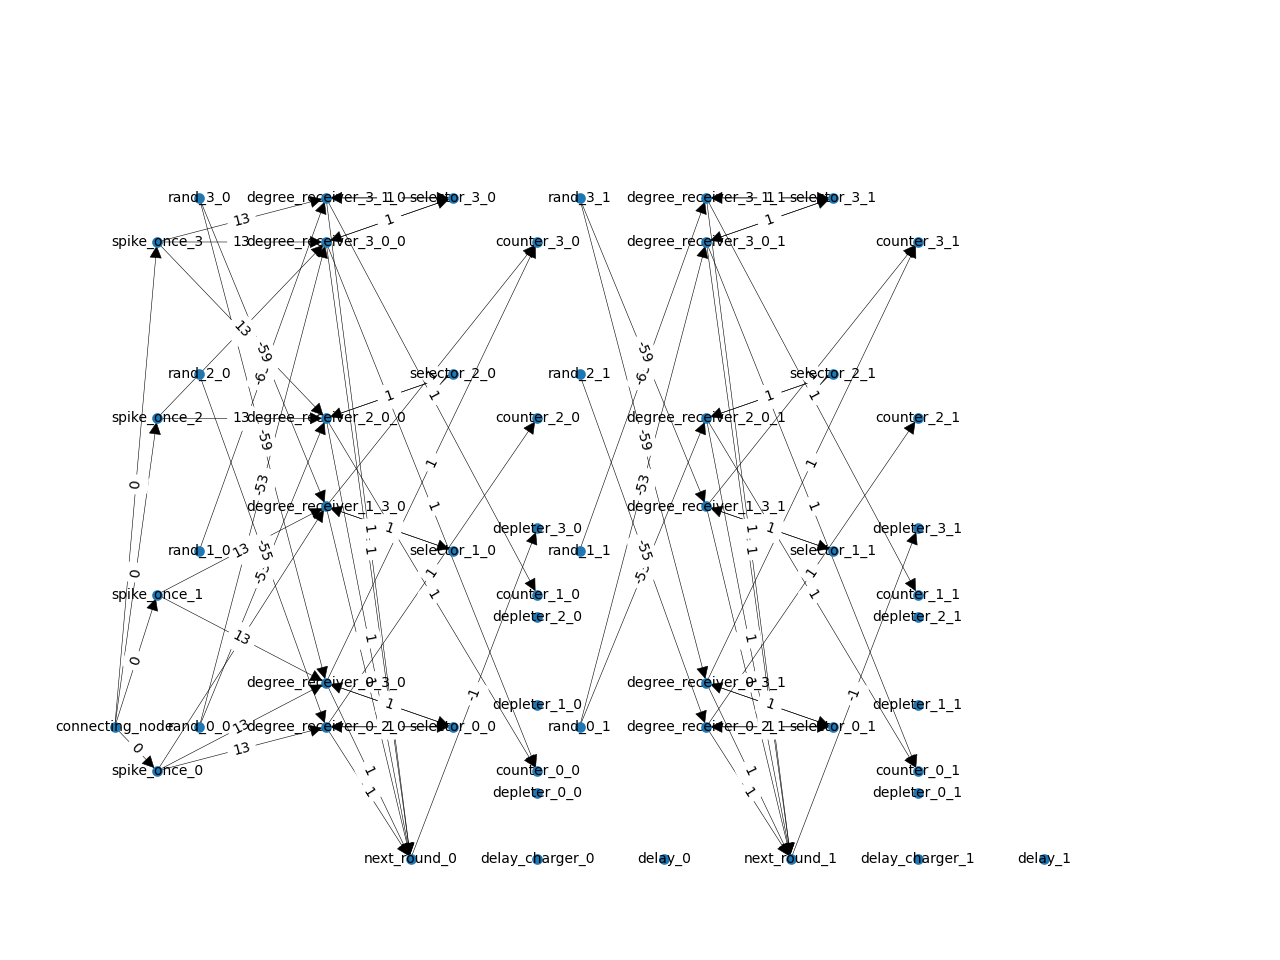
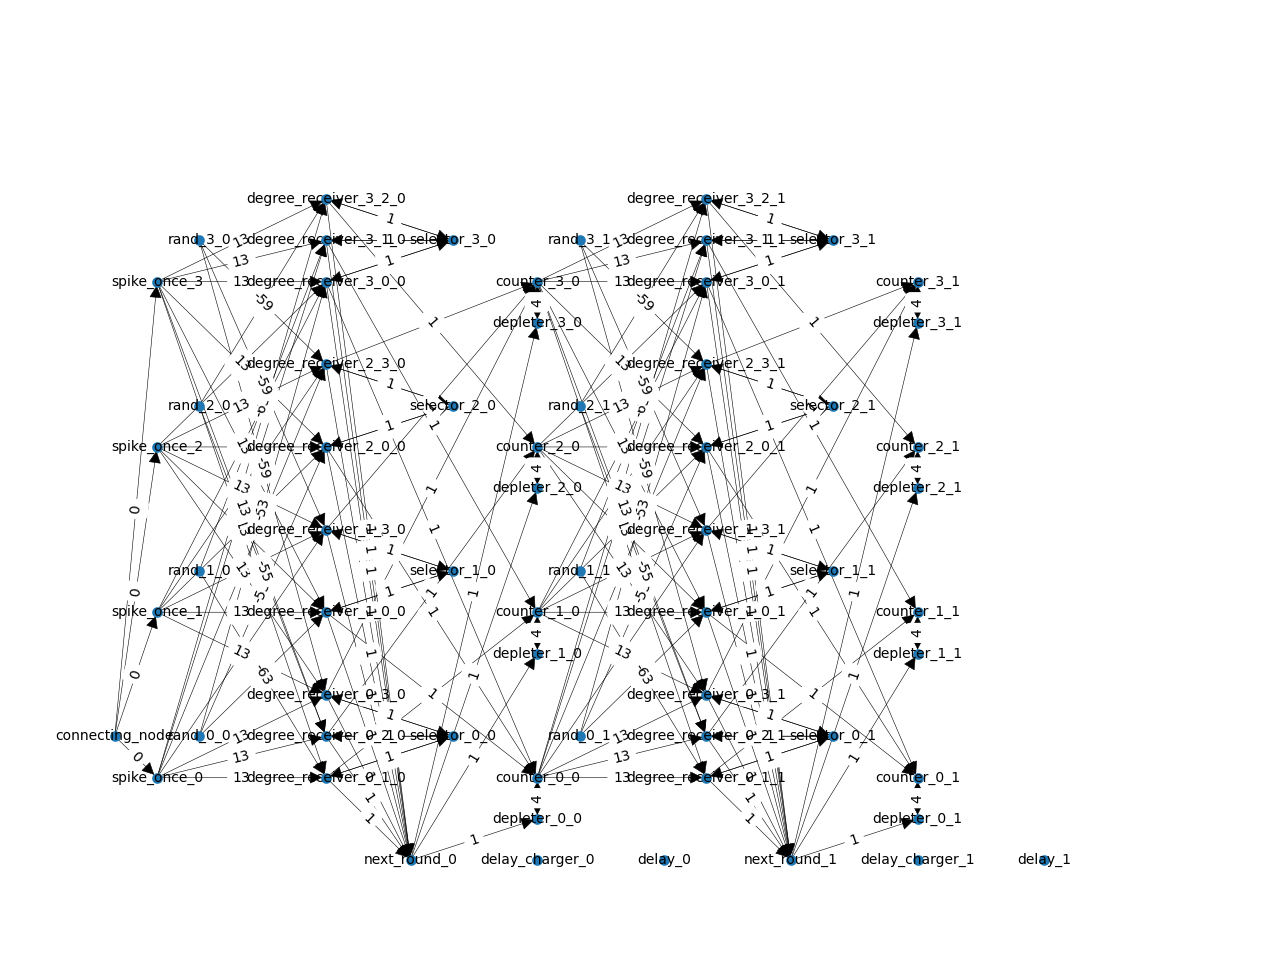
Included more synapses.

Changed region(s): [[0.0312, 0.1875, 0.75, 0.9062], [0.8125, 0.875, 0.8438, 0.9062], [0.5, 0.875, 0.5312, 0.9062]]

diff --git a/src/helper_network_structure.py b/src/helper_network_structure.py
@@ -128,7 +128,7 @@ def get_degree_graph_with_separate_wta_circuits(G, rand_nrs, rand_ceil, m=2):
                 id=node,
                 du=0,
                 dv=1,
-                bias=0,
+                bias=-len(G),
                 vth=0,
                 pos=(float(9 * d + loop * 9 * d), float(node * 4 * d)),
             )
@@ -141,7 +141,7 @@ def get_degree_graph_with_separate_wta_circuits(G, rand_nrs, rand_ceil, m=2):
                 dv=1,
                 bias=0,
                 vth=0,
-                pos=(float(9 * d + loop * 9 * d), float(node) - 0.25),
+                pos=(float(9 * d + loop * 9 * d), float(node * 4 * d) - d),
             )
 
         # Create next round connector neurons.
@@ -157,7 +157,7 @@ def get_degree_graph_with_separate_wta_circuits(G, rand_nrs, rand_ceil, m=2):
             )
 
             get_degree.add_node(
-                f"delay_charger_{loop}",
+                f"d_charger_{loop}",
                 id=node,
                 du=0,
                 dv=1,
@@ -172,7 +172,7 @@ def get_degree_graph_with_separate_wta_circuits(G, rand_nrs, rand_ceil, m=2):
                 du=0,
                 dv=1,
                 bias=0,
-                vth=0,
+                vth=2 * (len(G)) - 1,
                 pos=(float(12 * d + loop * 9 * d), -2 * d),
             )
 
@@ -203,6 +203,17 @@ def get_degree_graph_with_separate_wta_circuits(G, rand_nrs, rand_ceil, m=2):
                             weight=rand_ceil,
                         )
 
+                        for loop in range(0, m - 1):
+                            get_degree.add_edges_from(
+                                [
+                                    (
+                                        f"counter_{other_node}_{loop}",
+                                        f"degree_receiver_{node}_{neighbour}_{loop+1}",
+                                    )
+                                ],
+                                weight=rand_ceil,
+                            )
+
     #    for node in G.nodes:
     #        print(f'node={node},neighbours={list(nx.all_neighbors(G, node))}')
     #        for other_node in G.nodes:
@@ -212,6 +223,35 @@ def get_degree_graph_with_separate_wta_circuits(G, rand_nrs, rand_ceil, m=2):
     #
 
     # Then create all edges between the nodes.
+    for loop in range(0, m):
+        get_degree.add_edges_from(
+            [
+                (
+                    f"next_round_{loop}",
+                    f"d_charger_{loop}",
+                )
+            ],
+            weight=1,
+        )
+        get_degree.add_edges_from(
+            [
+                (
+                    f"delay_{loop}",
+                    f"d_charger_{loop}",
+                )
+            ],
+            weight=-1,
+        )
+        get_degree.add_edges_from(
+            [
+                (
+                    f"d_charger_{loop}",
+                    f"delay_{loop}",
+                )
+            ],
+            weight=+1,
+        )
+
     for circuit in G.nodes:
 
         # Add synapse between random node and degree receiver nodes.
@@ -243,16 +283,35 @@ def get_degree_graph_with_separate_wta_circuits(G, rand_nrs, rand_ceil, m=2):
                             weight=1,
                         )
 
-            for loop in range(0, m):
-                get_degree.add_edges_from(
-                    [
-                        (
-                            f"next_round_{loop}",
-                            f"depleter_{node}_{loop}",
-                        )
-                    ],
-                    weight=-1,
-                )
+        for loop in range(0, m):
+            get_degree.add_edges_from(
+                [
+                    (
+                        f"next_round_{loop}",
+                        f"depleter_{circuit}_{loop}",
+                    )
+                ],
+                weight=+1,
+            )
+        for loop in range(0, m):
+            get_degree.add_edges_from(
+                [
+                    (
+                        f"counter_{circuit}_{loop}",
+                        f"depleter_{circuit}_{loop}",
+                    )
+                ],
+                weight=+1,
+            )
+            get_degree.add_edges_from(
+                [
+                    (
+                        f"depleter_{circuit}_{loop}",
+                        f"counter_{circuit}_{loop}",
+                    )
+                ],
+                weight=+len(G),
+            )
 
         # Add synapse from degree_selector to selector node.
         for neighbour_b in nx.all_neighbors(G, circuit):

diff --git a/test/test_algo_p1.py b/test/test_algo_p1.py
@@ -59,7 +59,7 @@ class Test_counter(unittest.TestCase):
             for size in range(4, 5, 1):
                 graphs.append(create_triangle_free_planar_graph(size, 0.6, 42, False))
             for G in graphs:
-                # G=create_manual_graph_with_4_nodes()
+                G = create_manual_graph_with_4_nodes()
                 # Initialise paramers used for testing.
                 test_object = create_test_object(G, retry, False, False)
                 # raise Exception("STOP")
@@ -149,6 +149,13 @@ class Test_counter(unittest.TestCase):
 
             # Print the values coming into the timestep.
             # Assert neuron values.
+            self.print_neuron_properties(
+                test_object,
+                sorted_counter_neurons,
+                sorted_degree_receiver_neurons,
+                sorted_selector_neurons,
+                t,
+            )
             # TODO: Get args from create object.
             self.verify_neuron_behaviour(
                 test_object,
@@ -166,13 +173,6 @@ class Test_counter(unittest.TestCase):
                 sorted_degree_receiver_neurons,
                 sorted_selector_neurons,
                 starter_neuron,
-                t,
-            )
-            self.print_neuron_properties(
-                test_object,
-                sorted_counter_neurons,
-                sorted_degree_receiver_neurons,
-                sorted_selector_neurons,
                 t,
             )
             if not extraction_time is None and t == extraction_time:
@@ -292,11 +292,11 @@ class Test_counter(unittest.TestCase):
         for selector_neuron in sorted_selector_neurons:
             selector_neuron_name = test_object.neuron_dict[selector_neuron]
             wta_circuit = int(selector_neuron_name.split("_")[1])
-            print(f"wta_circuit={wta_circuit}")
-            print(f"selector_neuron_name={selector_neuron_name}")
-            print(
-                f"selector_previous_a_in[selector_neuron_name]={selector_previous_a_in[selector_neuron_name]}"
-            )
+            # print(f"wta_circuit={wta_circuit}")
+            # print(f"selector_neuron_name={selector_neuron_name}")
+            # print(
+            #    f"selector_previous_a_in[selector_neuron_name]={selector_previous_a_in[selector_neuron_name]}"
+            # )
             (
                 selector_previous_a_in[selector_neuron_name],
                 selector_previous_us[selector_neuron_name],

diff --git a/src/networkx_to_snn.py b/src/networkx_to_snn.py
@@ -163,13 +163,24 @@ def create_neuron_from_node(G, converted_nodes, neurons, node):
         or node[0:5] == "rand_"
         or node[0:16] == "degree_receiver_"
     ):
-        dense = create_weighted_synapse(-2)
+        neuron = create_recurrent_synapse(neuron, -2)
 
-        # Connect neuron to itself.
-        neuron = connect_synapse(neuron, neuron, dense)
+    if node[0:6] == "count_":
+        neuron = create_recurrent_synapse(neuron, -1)
+    if node[0:6] == "delay_":
+        neuron = create_recurrent_synapse(neuron, -(len(G) * 2 - 1) - 2)  # TODO: or -1?
+
     neurons.append(neuron)
     converted_nodes.append(node)
     return converted_nodes, neuron, neurons, node
+
+
+def create_recurrent_synapse(neuron, weight):
+    dense = create_weighted_synapse(weight)
+
+    # Connect neuron to itself.
+    neuron = connect_synapse(neuron, neuron, dense)
+    return neuron
 
 
 def node_is_converted(G, converted_nodes, neurons, node):

diff --git a/test/create_testobject.py b/test/create_testobject.py
@@ -27,7 +27,7 @@ def create_test_object(
     test_object.sample_spike_once_neuron = Spike_once_neuron()
     test_object.sample_rand_neuron = Rand_neuron()
     test_object.sample_degree_receiver_neuron = Degree_receiver()
-    test_object.sample_counter_neuron = Counter_neuron()
+    test_object.sample_counter_neuron = Counter_neuron(G)
 
     ## Specify the expected synaptic weights
     # TODO: Specify per synapse group. (except for the random synapses)
@@ -282,9 +282,9 @@ class Rand_neuron:
 class Counter_neuron:
     """Creates expected properties of the counter neuron."""
 
-    def __init__(self):
+    def __init__(self, G):
         self.first_name = "counter_0"
-        self.bias = 0
+        self.bias = -len(G)
         self.du = 0
         self.dv = 1
         self.vth = 0
